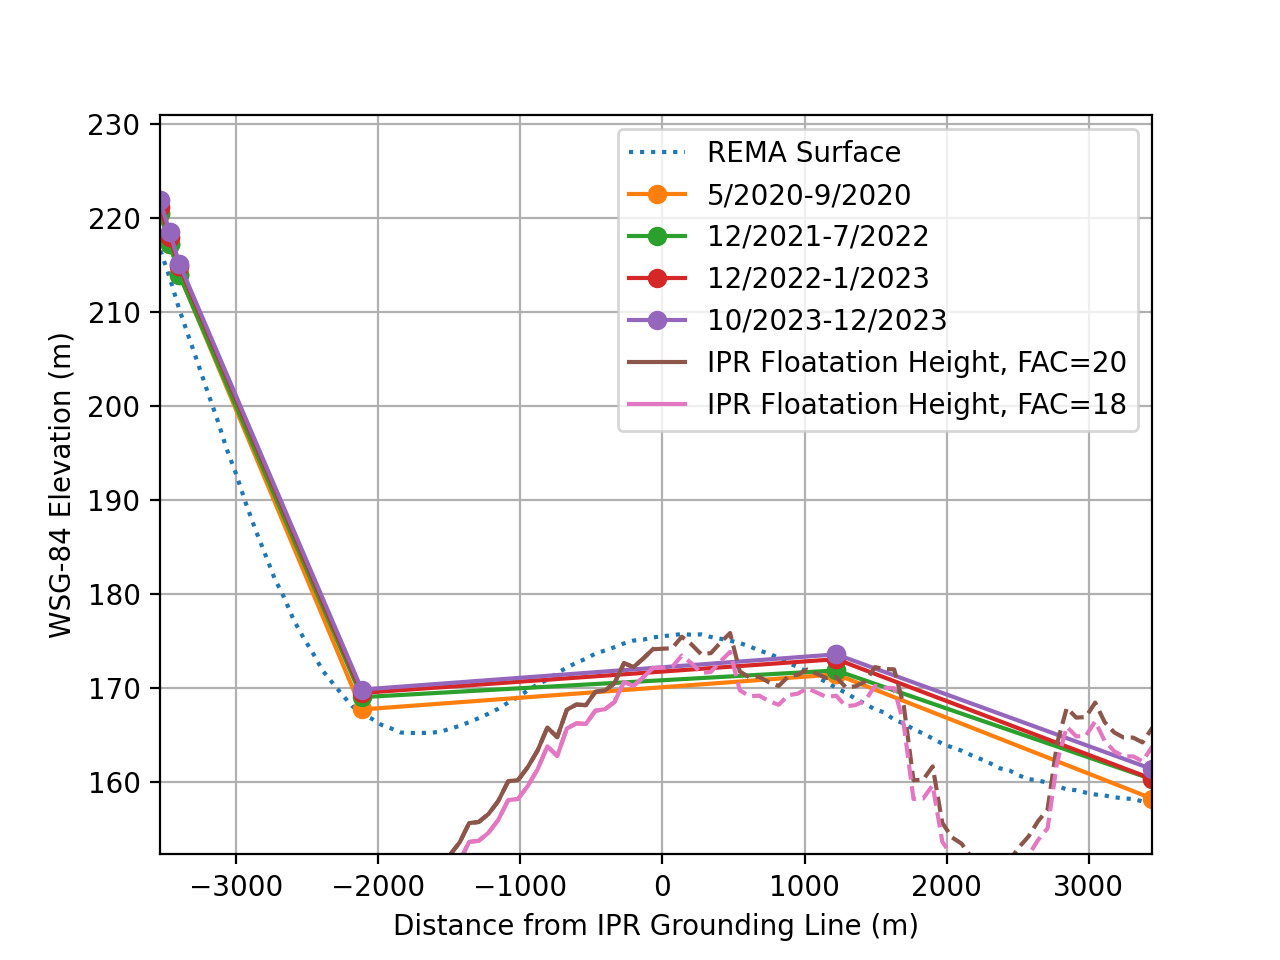
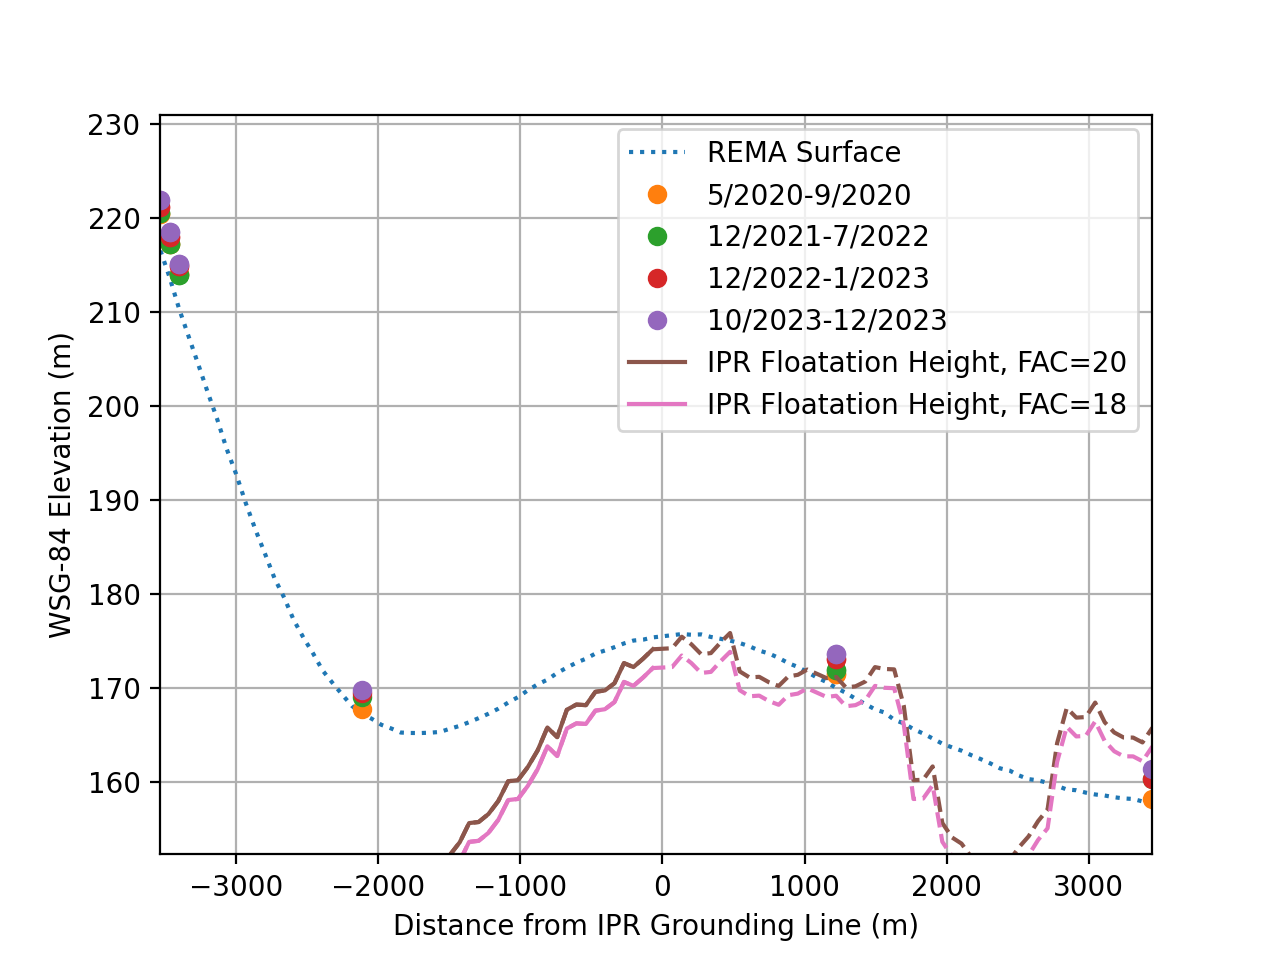
lines of profile plot removed

diff --git a/src/plotting.py b/src/plotting.py
@@ -505,9 +505,9 @@ class Plotting:
         if type(ax) == np.ndarray:
             ax1 = ax[0]
         if label == None:
-            ax1.plot(dist, elevation, marker='o')
+            ax1.plot(dist, elevation, marker='o', linestyle='None')
         else:
-            ax1.plot(dist, elevation, marker='o', label=label)
+            ax1.plot(dist, elevation, marker='o', linestyle='None', label=label)
 
         padding = (max(elevation) - min(elevation)) * 0.15
 